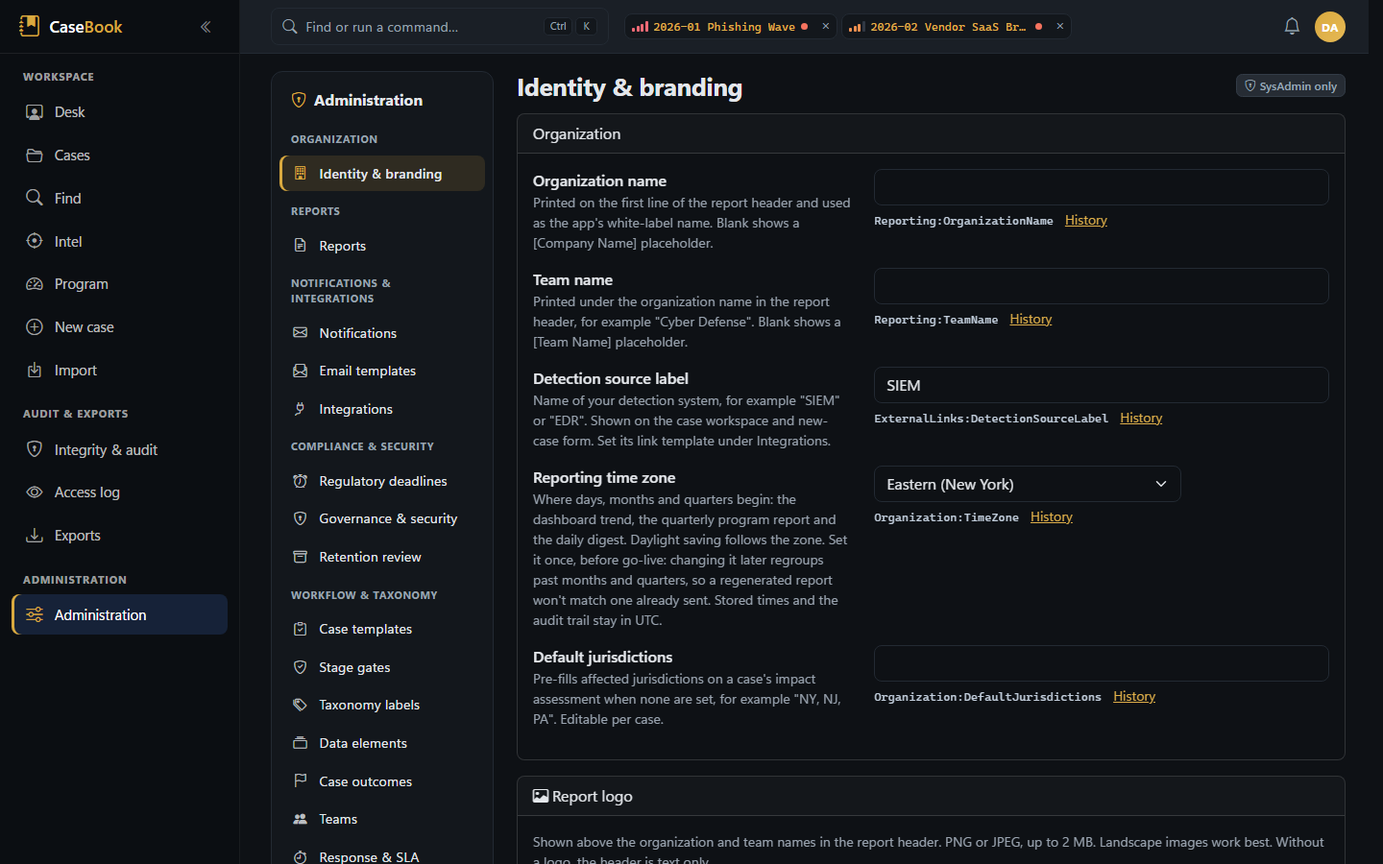
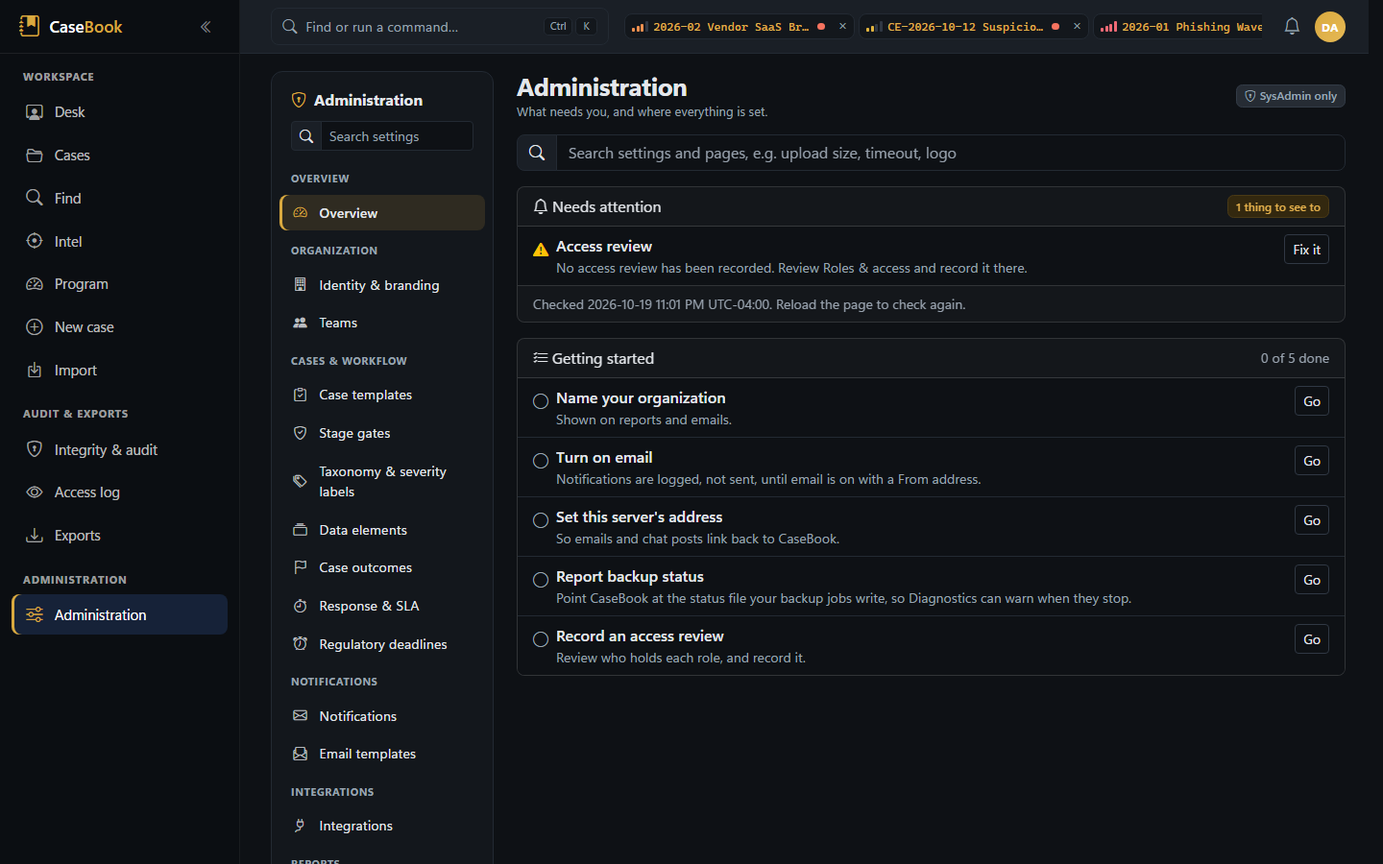
Docs for the new Administration (areas by task, search, overview, editing feedback, Diagnostics' order, the moved pages and old links), v1.11.0 notes, refreshed admin screenshots; the rail's search hides on the overview, which has its own

diff --git a/docs/workflows/administration.md b/docs/workflows/administration.md
@@ -7,43 +7,73 @@ authentication, key paths, SIEM, CyberArk) aren't editable here; they're shown r
 
 ![Administration](../screenshots/admin-settings.png)
 
+## Finding your way
+
+- **Overview** (`/admin`) is where Administration opens: **Needs attention** lists everything that needs an
+  administrator, worst first, each with a link to where it's fixed (the same list heads Diagnostics), and, while a new
+  install still needs them, **Getting started** steps.
+- **Search**, on the overview and at the top of the rail, finds a setting by its label, its key, its help text or an
+  everyday word ("upload size", "timeout", "SMTP"), a page by what it's for ("logo", "api key"), and a server-only
+  setting ("connection string", which says it's set on the host). A setting opens on its page, scrolled to it and
+  briefly highlighted. The same results appear in the command palette (Ctrl+K) under *Administration*.
+- A link from elsewhere lands on the setting too: Diagnostics' *Fix it*, and an upload refused by a limit (an
+  administrator gets *Change the limit*).
+
 ## The admin areas
 
-| Area | Route | What you can do |
-|---|---|---|
-| Identity & branding | `/admin` | Organization and team name, time zone, default jurisdictions, accent and ink colors, report logo |
-| Reports | `/admin/settings/reporting` | Report defaults (TLP, defanging, milestones, late-entry notes, separate approver, lessons legend), the section-layout designer, report profiles, the Word template library |
-| Notifications | `/admin/settings/notifications` | Email on/off, sender, distributions, reminder scans and their timing, mandatory types, chat routing, base URL; the delivery-readiness panel; the **Email sign-in** card (CAP-05: none, username and password, or Windows; the password write-only, encrypted with Data Protection, read-only when the server's configuration sets it) with a test email beside it; the **Team chat webhook** card (CAP-40: the URL write-only, https checked before it's saved, "set on … by …" with Replace and Clear, read-only when the server's configuration sets it) with *Send test* beside it; and a test email and chat message |
-| Email templates | `/admin/email-templates` | Subject and body of every notification email, with preview (the branded shell is fixed) |
-| Integrations | `/admin/settings/integrations` | Detection-source label and link template, VirusTotal link template; under *Related indicators*, your organization's domains, the excluded address ranges and the free mail switch that *Possibly related* leaves out (CAP-28). Beside the domains, the domains found on this server's network with where each came from (this domain, forest root, same forest, trusted); **Use these** fills the field without saving, so you review and save it; **Look again** looks again. While the field has never been saved, your organization's own domains found (this domain, forest root, same forest) are used, and a trusted partner's domain is only offered through **Use these**; saved, even blank, your list is used |
-| Regulatory deadlines | `/admin/settings/regulatory-deadlines` | Deadline clock on/off, start basis, default window, per-jurisdiction rules |
-| Governance & security | `/admin/settings/governance` | Retention (case retention for the retention review, the monthly retention email to Legal, access-log retention), integrity (auto-seal, evidence re-hash), access logging scope and coalescing, idle timeout, the access-review reminder, two-person legal-hold release |
-| Offboarding | `/admin/users/{reference}` (from Known users) | CAP-30: one person who leaves: their roles at last sign-in (AD stays the source; remove their groups there), the open cases they command or are on (restricted ones counted unless you're cleared for them), their open tasks, their working API tokens and whether their calendar link works. **Revoke** their tokens and **Void the calendar link** (each confirmed and audited; the link is never shown); reassign their cases with **Reassign…** in Program › Team workload |
-| Retention review | `/admin/retention` | CAP-10: closed cases past case retention, with each one's legal hold, open improvement actions and regulatory notices not recorded; archive up to 25 at a time after seeing them listed. Nothing is purged |
-| Case templates | `/admin/templates` | Playbooks: defaults for the new-case form and steps that become tasks |
-| Stage gates | `/admin/gates` | One gate per trigger: requirements, blocking or advisory, minimum reason length |
-| Taxonomy labels | `/admin/taxonomy` | Rename, hide or reorder display labels for six lists: classifications, phases, entity types, dispositions, timeline entry types and relationship types (display only; stored values don't change). Severity labels are under Response & SLA |
-| Data elements | `/admin/data-elements` | Personal-data categories and their notification jurisdictions; archive or (if unused) delete |
-| Case outcomes | `/admin/outcomes` | What a case can conclude when it closes; add, relabel, describe, reorder, archive or (if unused) delete |
-| Teams | `/admin/teams` | CAP-36: the teams that own cases; add, rename, retire or restore, set members, a detection source and a team chat webhook |
-| Response & SLA | `/admin/settings/sla` | SLA targets per severity, breach overrides, at-risk threshold, severity labels |
-| Roles & access | `/admin/roles` | Custom roles (from the eight permissions) and AD group mappings; the access review (broad access, restricted cases, known users, each opening their offboarding page (CAP-30), active API tokens) with its CSV, and **Record this review** (CAP-15) |
-| API tokens | `/admin/api-tokens` | System tokens for machine producers |
-| Server configuration | `/admin/settings/server` | Read-only view of server-side settings (secrets as present or absent, and where from: the server's configuration or Administration); and the **SIEM webhook token** card (CAP-40: write-only, as the chat URL's, with *Send test event* beside it) |
-| Setting sources | `/admin/settings/source` | Each setting's effective value and where it comes from (*Discovered* for your organization's domains while the domains found on the network are in use, CAP-28) |
-| Configuration bundle | `/admin/config-bundle` | Export, diff and import editable configuration |
-| Updates | `/admin/settings/updates` | The running version and the last upgrade; the update check (off by default: one anonymous call a day to the GitHub Releases API) with each newer release's notes; the exact elevated command to upgrade this site |
-| Diagnostics | `/admin/settings/diagnostics` | Backup and restore freshness, evidence-integrity status, CyberArk resolution health, delivery health (CAP-04: email, chat and each SIEM transport; in memory since restart), the scheduled jobs (CAP-29: each background job's last run, next due and last error by type, in memory since restart; **Run now** for the read-only scans), the email relay sign-in check, a "re-enter" check for a saved chat URL or SIEM token that can't be decrypted here (CAP-40), SIEM test event, writable-path checks, the retention review's latest count (CAP-10), the access-review reminder (CAP-15), and *Organization domains found* (CAP-28: what discovery found and when, or why nothing: not on a domain, timed out, or the error's type; and whether they're in use) |
-| Style guide | `/admin/style` | Live design-system reference for developers |
-| Access log | `/access-log` (main navigation) | Who read which case or downloaded what |
+The rail groups the pages by what you're doing.
+
+| Group | Page | Route | What you can do |
+|---|---|---|---|
+| Overview | Overview | `/admin` | What needs attention, getting started, search |
+| Organization | Identity & branding | `/admin/settings/identity` | Organization and team name, time zone, default jurisdictions, accent and ink colors, report logo |
+| | Teams | `/admin/teams` | CAP-36: the teams that own cases; add, rename, retire or restore, set members, a detection source and a team chat webhook |
+| Cases & workflow | Case templates | `/admin/templates` | Playbooks: defaults for the new-case form and steps that become tasks |
+| | Stage gates | `/admin/gates` | One gate per trigger: requirements, blocking or advisory, minimum reason length |
+| | Taxonomy & severity labels | `/admin/settings/taxonomy` | Rename, hide or reorder display labels for six lists (classifications, phases, entity types, dispositions, timeline entry types and relationship types; display only, stored values don't change), each saved on its own; and the severity labels |
+| | Data elements | `/admin/data-elements` | Personal-data categories and their notification jurisdictions; archive or (if unused) delete |
+| | Case outcomes | `/admin/outcomes` | What a case can conclude when it closes; add, relabel, describe, reorder, archive or (if unused) delete |
+| | Response & SLA | `/admin/settings/sla` | SLA targets per severity, breach overrides, at-risk threshold |
+| | Regulatory deadlines | `/admin/settings/regulatory-deadlines` | Deadline clock on/off, start basis, default window, per-jurisdiction rules |
+| Notifications | Notifications | `/admin/settings/notifications` | Three cards. **Email delivery**: email on/off, sender, distributions, this server's address, the delivery-readiness panel, the relay as the server's configuration sets it (read-only), and the **Email sign-in** card (CAP-05: none, username and password, or Windows; the password write-only, encrypted with Data Protection). **Email notifications**: assignment emails, the reminder scans and their timing, digests, mandatory types, exercise escalations. **Team chat**: what's posted to chat, the chat switch (read-only), the **Team chat webhook** card (CAP-40), and test email and chat messages |
+| | Email templates | `/admin/email-templates` | Subject and body of every notification email, with preview (the branded shell is fixed) |
+| Integrations | Integrations | `/admin/settings/integrations` | **External links**: the detection-source label and link template, the VirusTotal link template. **Related indicators** (CAP-28): your organization's domains (with the domains found on this server's network, **Use these** and **Look again**), the excluded address ranges and the free mail switch. **SIEM, team chat and CyberArk**: their status as the server's configuration sets them (read-only), *Send test event*, and the **SIEM webhook token** card (CAP-40) |
+| Reports | Reports | `/admin/settings/reporting` | Report defaults (TLP, defanging, milestones, late-entry notes, separate approver, lessons legend), the section-layout designer, report profiles, the Word template library |
+| Records & evidence | Evidence storage | `/admin/settings/evidence` | Largest file, total limit, free space to keep, the read-back check, safe download; where evidence is stored, whether it's writable, what it takes (the meter), and the store folder and encryption (read-only) |
+| | Retention | `/admin/settings/retention` | Case, access-log and decided-import retention, the monthly email to Legal, the second approver to release a legal hold; and below them the **retention review** (CAP-10): closed cases past case retention, with each one's legal hold, open improvement actions and regulatory notices not recorded; archive up to 25 at a time after seeing them listed. Nothing is purged |
+| | Integrity | `/admin/settings/integrity` | Auto-seal, evidence re-verification and its full pass; the evidence-at-rest results; the signing and chain keys in force (read-only) |
+| People & access | Roles & access | `/admin/roles` | Custom roles (from the eight permissions) and AD group mappings; the access review (broad access, restricted cases, known users, each opening their offboarding page (CAP-30), active API tokens) with its CSV, and **Record this review** (CAP-15) |
+| | API tokens | `/admin/api-tokens` | System tokens for machine producers |
+| | Security & access logging | `/admin/settings/security` | Idle timeout, the access-review reminder, what the access log records and how visits are grouped |
+| System | Diagnostics | `/admin/settings/diagnostics` | **Needs attention**, then **Service health** (the checks, each failed one with *Fix it*; delivery health, CAP-04; the scheduled jobs, CAP-29, with **Run now** for the read-only scans; backup and restore freshness), **Storage and keys** (evidence storage in one line, evidence encryption, the integrity keys and seal copies, CyberArk resolution, the backup set, CAP-19), **Capacity** (the integrity check's cost) and **About this server** (version, environment, database, migrations, search, sign-in mode, the organization domains found, CAP-28) |
+| | Server configuration | `/admin/settings/server` | Read-only view of server-side settings (secrets as present or absent, and where from: the server's configuration or Administration) |
+| | Setting sources | `/admin/settings/source` | Each setting's effective value and where it comes from (*Discovered* for your organization's domains while the domains found on the network are in use, CAP-28) |
+| | Configuration bundle | `/admin/config-bundle` | Export, diff and import editable configuration |
+| | Updates | `/admin/settings/updates` | The running version and the last upgrade; the update check (off by default) with each newer release's notes; the exact elevated command to upgrade this site |
+| | Search | `/admin/settings/search` | How search matches words (CAP-22) |
+| | Style guide | `/admin/style` | Live design-system reference for developers; in the rail in Development only |
+| | Offboarding | `/admin/users/{reference}` (from Known users) | CAP-30: one person who leaves: their roles at last sign-in (AD stays the source; remove their groups there), the open cases they command or are on (restricted ones counted unless you're cleared for them), their open tasks, their working API tokens and whether their calendar link works. **Revoke** their tokens and **Void the calendar link** (each confirmed and audited; the link is never shown); reassign their cases with **Reassign…** in Program › Team workload |
+| | Access log | `/access-log` (main navigation) | Who read which case or downloaded what |
+
+Old links still work: `/admin/settings/governance` opens Evidence storage, `/admin/retention` the Retention page and
+`/admin/taxonomy` the Taxonomy & severity labels page.
 
 ## Editing settings
 
-1. Open a section. Each card shows its settings; changed values are marked "Unsaved changes".
-2. **Save changes** in the bar at the bottom of the section (or *Discard*). Leaving with unsaved changes asks
-   first.
+1. Open a page. Each card shows its settings; changed values are marked "Unsaved changes". A value that breaks its
+   setting's rules (a number out of range, a malformed address) is said under it as you type, and Save waits until
+   it's corrected.
+2. **Save changes** in the bar at the bottom of the page (or *Discard*). The message says what changed (old to new
+   where it's short) and, for a setting that waits, when it applies. Leaving with unsaved changes asks first.
 3. The service checks each value against the catalog (type, range, options), writes an audited `AppSetting`
    row, reloads configuration and emits SIEM 5403.
+
+Most changes apply at once. A setting a background job reads (the reminder scans, retention, auto-seal, evidence
+re-verification, the update check) is tagged *Applies within about 10 minutes*, and the idle timeout *Applies to new
+sign-ins*. A changed setting shows **Changed in CaseBook**, who changed it and when, with *Reset* and *History* (the
+audit trail filtered to it). A card that saves with its own button (the email sign-in, the chat webhook and SIEM
+token, the report logo, each taxonomy list) says *Saves on its own*. Settings only the server's configuration sets
+are shown read-only at the foot of the card that uses them, marked *Set on the host*.
 
 Two things to know: where no override exists, the form shows the value from your server files (or the catalog
 default when they set none), so what you see is what's in effect; and **clearing a number restores the file
@@ -87,7 +117,7 @@ To find past reviews, filter the audit trail (Integrity & audit) by the entity t
 
 ## Retention review (CAP-10)
 
-`Retention:CaseYears` (Governance & security, default 7) decides when a closed case is listed under **Retention review**:
+`Retention:CaseYears` (Records & evidence › Retention, default 7) decides when a closed case is listed in the **retention review**:
 closed more than that many years ago and not archived. 0 turns the review off. Exercises aren't listed. The list is your
 own need-to-know view: an administrator without the clearance for a restricted case doesn't see it.
 

diff --git a/docs/operations/configuration.md b/docs/operations/configuration.md
@@ -39,12 +39,13 @@ Things to know:
   related-indicator exclusions) is used only while no source gives the list as items. An in-app list, blank
   included, always wins over it (CAP-28 review). An empty JSON array (`"ExcludedDomains": []`) is an empty list,
   not an unset one.
-- **Administration → Settings → Configuration source map** shows the true effective value of each key and
+- **Administration → Setting sources** shows the true effective value of each key and
   which source it came from. Use it when a value isn't what you expect.
 
 ### 1.1 In-app (operational) settings
 
-Administration → Settings edits the keys in `SettingsCatalog`. A save:
+Administration edits the keys in `SettingsCatalog`, each on the page of its kind (Notifications, Evidence storage and
+so on; search finds any of them). A save:
 
 1. requires the `Administer` permission;
 2. rejects any key not in the catalog;
@@ -53,7 +54,7 @@ Administration → Settings edits the keys in `SettingsCatalog`. A save:
 4. writes an `AppSetting` row, which is audited and hash-chained like any other change;
 5. reloads configuration and emits SIEM event 5403.
 
-Two other key spaces share the table: `Taxonomy:*` (display labels, Administration → Taxonomy) and
+Two other key spaces share the table: `Taxonomy:*` (display labels, Administration → Taxonomy & severity labels) and
 `EmailTemplate:*` (Administration → Email templates).
 
 When loading, the database provider applies the same whitelist. A row whose key isn't in the catalog (and
@@ -108,7 +109,7 @@ Everything else is checked lazily or not at all:
 
 Columns:
 
-- **Edit**: **App** (Administration → Settings) or **Server** (files or environment).
+- **Edit**: **App** (Administration) or **Server** (files or environment).
 - **Sens**: 🔒 secret · ⚠ sensitive (infrastructure detail, personal data) · blank for benign.
 - A default shown as `json: …` is a value set in `appsettings.json` rather than in code.
 
@@ -215,7 +216,7 @@ process's working directory, which under IIS is the site folder.
 | Key | Purpose | Default | Edit |
 |---|---|---|---|
 | `Governance:LegalHoldRelease:RequireSecondApprover` | Two-person control for releasing a legal hold | `false` | App |
-| `Retention:CaseYears` | Years after closing before a case is listed under Administration › Retention review for an administrator to archive (CAP-10). Nothing is archived or deleted automatically. `0` turns the review (and its background count, at start-up and then every `Notifications:RetentionReview:IntervalHours`) off; at most 100 (a larger value in the file counts as 100). | `7` | App |
+| `Retention:CaseYears` | Years after closing before a case is listed under Administration › Retention for an administrator to archive (CAP-10). Nothing is archived or deleted automatically. `0` turns the review (and its background count, at start-up and then every `Notifications:RetentionReview:IntervalHours`) off; at most 100 (a larger value in the file counts as 100). | `7` | App |
 | `Notifications:RetentionReview:Email` | Once a calendar month (organization time zone), when cases are past `Retention:CaseYears`, email the Legal / Privacy distribution how many are waiting and how many are under a hold: counts only, no case named (CAP-10). Needs `Email:LegalDistribution`; a month whose email fails goes again on the next count | `false` | App |
 | `Notifications:RetentionReview:IntervalHours` | Hours between the retention review's counts (`0` also means 24; at most 744) | `24` | Server |
 | `Governance:AccessReview:ReminderDays` | Diagnostics flags the access review as due when none has been recorded under Roles & access in this many days, or none ever has (CAP-15). `0` turns the reminder off; at most 730 | `90` | App |
@@ -270,7 +271,7 @@ Classification, phase and other labels are under Administration → Taxonomy (`T
 
 CaseBook signs in to the relay one of three ways (CAP-05): **none** (an anonymous or IP-allow-listed relay, the
 default), a **username and password**, or **Windows**: integrated authentication as the app-pool account (a gMSA), with
-no password anywhere, for on-premises Exchange. The usual place to set it is **Administration → Settings →
+no password anywhere, for on-premises Exchange. The usual place to set it is **Administration →
 Notifications → Email sign-in**: the password is encrypted with ASP.NET Core Data Protection and kept in the
 database (`SmtpSignIns`), never shown again ([integrations.md](integrations.md#email-smtp)). The server's
 configuration can set it instead, with the keys below; when it sets any of them it wins, and the form shows the
@@ -317,7 +318,7 @@ scans read case data only. All deliver only when `Email:Enabled` is on (or to ch
 | `Notifications:Mandatory:{Assignment,Overdue,DueSoon}` | Users can't opt out of that type | `false` | App |
 | `Notifications:Chat:{BreachEscalations,Assignments,Mentions,OverdueReminders,DueSoonReminders,DeadlineReminders,StaleReminders,ImportSubmissions}` | Also post that type to the team chat channel. `ImportSubmissions` (CAP-01) says an API import is waiting; for a restricted case it leaves out the summary and origin | `false` | App |
 
-Administration → Settings → Notifications has a **Delivery readiness** panel. It shows whether email is on,
+Administration → Notifications has a **Delivery readiness** panel. It shows whether email is on,
 whether a sender is set and which triggers are enabled, and a *Send a test email* card.
 
 ### 3.14 Calendar feed

diff --git a/docs/architecture/frontend.md b/docs/architecture/frontend.md
@@ -48,16 +48,24 @@ caught by the server and redirected to `/access-denied?from=…`; an unknown pag
 | `/exports` | `Exports` | ViewCases | Download CSVs and bundles |
 | `/program/report` | `ProgramReportPage` | ViewCases | Program › Program report: quarterly program metrics |
 | `/account/access`, `/account/api-tokens`, `/account/notifications`, `/account/keyboard` | `Account*` | signed in | My access; personal tokens; notification preferences; keyboard shortcuts (RD-24) |
-| `/admin`, `/admin/settings/{Section?}` | `Admin` | Administer | Settings sections (below) |
-| `/admin/templates`, `/admin/gates`, `/admin/taxonomy`, `/admin/data-elements`, `/admin/outcomes`, `/admin/teams`, `/admin/roles`, `/admin/api-tokens`, `/admin/email-templates`, `/admin/config-bundle`, `/admin/retention`, `/admin/users/{UserRef:guid}`, `/admin/style` | `Admin*`, `StyleGuide` | Administer | Case templates, stage gates, labels, data elements, case outcomes, teams (CAP-36, `AdminTeams`, with a webhook card per team), roles and AD mappings (with the access review, CAP-15), system tokens, email wording, configuration bundle, the retention review (CAP-10), offboarding one person (CAP-30, `AdminOffboarding`; `UserRef` is the `AppUser` row's id, an opaque reference, never a name or account), live style guide |
+| `/admin` | `AdminOverview` | Administer | What needs attention (`AttentionSummary`, from `AdminHealth`), getting started, search (`AdminSearchBox`) |
+| `/admin/settings/{Section?}` | `Admin` | Administer | Settings and System sections (below) |
+| `/admin/templates`, `/admin/gates`, `/admin/data-elements`, `/admin/outcomes`, `/admin/teams`, `/admin/roles`, `/admin/api-tokens`, `/admin/email-templates`, `/admin/config-bundle`, `/admin/users/{UserRef:guid}`, `/admin/style` | `Admin*`, `StyleGuide` | Administer | Case templates, stage gates, data elements, case outcomes, teams (CAP-36, `AdminTeams`, with a webhook card per team), roles and AD mappings (with the access review, CAP-15), system tokens, email wording, configuration bundle, offboarding one person (CAP-30, `AdminOffboarding`; `UserRef` is the `AppUser` row's id, an opaque reference, never a name or account), live style guide |
 | `/access-denied`, `/not-found` | `NoAccess`, `NotFoundPage` | signed in | Friendly 403 and 404 |
 | `/Error`, `/session-expired` | `Error`, `SessionExpired` | anonymous (blank layout) | Error with a reference id; idle lock landing |
 
-**Admin sections.** `AdminLayout` adds a left rail. `/admin/settings/{section}` maps to groups in
-`SettingsCatalog`: `identity` (organization), `reporting`, `notifications`, `integrations`,
-`regulatory-deadlines`, `governance`, `sla`, plus the system views `server` (read-only server configuration),
-`source` (where each setting's value comes from) and `diagnostics`. A catalog group not claimed by a section
-appears under `/admin/settings/other`. Each section has one Save bar; leaving with unsaved changes prompts.
+**Admin sections.** `AdminLayout` adds a left rail grouped by task (`AdminLayout.AllGroups`: Overview, Organization, Cases &
+workflow, Notifications, Integrations, Reports, Records & evidence, People & access, System), with a search box at its top.
+`/admin/settings/{section}` maps to groups in `SettingsCatalog` (`Admin.NamedSettingsSections`, each with a one-line
+subtitle): `identity`, `notifications` (Email delivery, Email notifications, Team chat), `integrations`, `sla`,
+`taxonomy` (the taxonomy editor, `TaxonomyEditor`, above the severity labels), `regulatory-deadlines`, `reporting`,
+`evidence`, `retention` (with the review, `RetentionReviewPanel`), `integrity`, `security`, `search`, `updates`, plus the
+system views `server`, `source` and `diagnostics`. `/admin/settings/governance` lands on `evidence`, and `/admin/retention`
+and `/admin/taxonomy` send old links to their sections. A catalog group not claimed by a section appears under
+`/admin/settings/other` (a test keeps it empty). Each section has one Save bar, held while any changed value breaks its
+rules; leaving with unsaved changes prompts. A link ending `#<setting key>` (search, Diagnostics' fixes, an error's
+"Change the limit") scrolls to the setting and highlights it (`admin.js`, `imAdmin.reveal`). `AdminSearchIndex` indexes
+the settings, pages and server-only settings for the search box and the command palette.
 
 ## Layout and navigation
 

diff --git a/docs/OPERATIONS.md b/docs/OPERATIONS.md
@@ -67,7 +67,7 @@ BACKUP LOG [IncidentManager]
 
 ### 1.2.1 Evidence storage: limits, large uploads and network shares
 
-**Limits (PROD-55).** Administration › Governance & security › Evidence storage sets the largest file
+**Limits (PROD-55).** Administration › Evidence storage sets the largest file
 (`Evidence:MaxUploadMB`, default 500 MB, up to 64 GB), the most all evidence may take (`Evidence:StorageQuotaGB`, no
 limit by default) and the free space an upload must leave on the store (`Evidence:MinFreeSpaceGB`, default 10 GB).
 Every way evidence arrives (picked, dropped, sent in parts, a pasted screenshot) is checked before a byte is stored
@@ -235,7 +235,7 @@ hash — so bit-rot, a silently substituted file, or a deletion under the eviden
 undetected until someone tried to open the file. F-17 closes that gap: a background job periodically
 **re-hashes the stored evidence files** and compares each with its recorded hash.
 
-- **Enable and schedule it** under **Administration → Settings → Integrity**
+- **Enable and schedule it** under **Administration → Integrity**
   (`Integrity:EvidenceVerify:Enabled`, default **off**; `Integrity:EvidenceVerify:IntervalHours`,
   default **24**; `Integrity:EvidenceVerify:PassDays`, default **7**). Each run re-hashes one share of the
   files, so every file is checked at least once in `PassDays` days and a large store is read a seventh at a
@@ -249,7 +249,7 @@ undetected until someone tried to open the file. F-17 closes that gap: a backgro
   (the offender list — case number, evidence id, filename). The alarm fires **once per drift** (an item and
   what's wrong with it): a drift that persists doesn't repeat it, a new one does even while an older one persists,
   and one that clears and comes back alerts again (REV-09).
-- **Status** is surfaced on **Administration → Diagnostics → Evidence-at-rest integrity** (last checked,
+- **Status** is surfaced on **Administration → Integrity → Evidence-at-rest results** (last checked,
   count verified, and any offenders) and, on drift, a persistent app-wide banner for Administer users.
 - Like the backup-health signal, the job **only reads** — it records nothing to the database and is not
   part of the audit chain (ops telemetry, not a case mutation), so a tamper that targets the store or
@@ -1128,7 +1128,7 @@ SMTP password `Email:SmtpPassword`; connection strings, `Agenda:FeedKey` and the
 literals or environment variables) needn't be kept in plain text. Each is resolved at runtime through one seam, so a
 value may be written three ways, chosen per value:
 
-**The SMTP password is usually entered in the app instead** (Administration → Settings → Notifications → Email
+**The SMTP password is usually entered in the app instead** (Administration → Notifications → Email
 sign-in): it's encrypted with Data Protection and kept in the database, with no keytool step. It's write-only, its
 changes are audited, and it needs the Data Protection key ring backed up with the database (§1). Setting
 `Email:SmtpUsername`/`SmtpPassword` or `Email:SmtpUseDefaultCredentials` in the file, as below, overrides the form
@@ -1386,7 +1386,7 @@ in the index, and a search word matches entries that **start with** it. So by wo
 "svc_backup" but `backup` doesn't, and `e-mail` finds "e-mail" but `mail` doesn't. Evidence file names, which are
 nearly always joined words, aren't indexed at all and stay a substring match (`dump` finds `lsass_dump.dmp`); the
 Evidence table is small. For the other free text, a site whose analysts need the part after the join found can set
-**Administration › Settings › Search › How search matches words** (`Search:Mode`) to *Anywhere in the text*
+**Administration › Search › How search matches words** (`Search:Mode`) to *Anywhere in the text*
 (`Substring`): every search then reads every row of every searched column, as without the feature (on the measured
 500-case database, about 340 ms a Find keystroke and 2 s a case-list search instead of 215 ms and 277 ms;
 [performance.md](reference/performance.md)), and the indexes stay in place, kept up to date, for switching back.

diff --git a/docs/product/screens.md b/docs/product/screens.md
@@ -394,7 +394,7 @@ lessons-learned report.
 |---|---|---|
 | Integrity & audit | Verify the audit chain, see seals, search the whole audit trail (case, actor, action, entity type, dates; paged by sequence, so new entries don't shift the pages) and export it as CSV, export a compliance bundle. A setting's *History* link in Administration opens it filtered to that setting | ![](../screenshots/integrity-audit.png) |
 | Access log | Who read which case or downloaded which artifact (administrators). Its CSV, like the audit trail's, holds up to 1,000,000 rows of the filter, streamed; a cut file says so (CAP-32) | ![](../screenshots/access-log.png) |
-| Administration | Settings by section, with a left rail of every admin area. *Diagnostics* includes **Scheduled jobs** (CAP-29: a table of every background job's last run, outcome, items, next due and last error by type, reset at restart, with **Run now** for the read-only scans) and the **Backup set** (CAP-19): the database's name and every path to back up, each with whether it's there and writable, its size and last write, and `backup-manifest.json` to download | ![](../screenshots/admin-settings.png) |
+| Administration | Opens on an **Overview**: *Needs attention* (every problem the checks, deliveries, jobs, backups, keys and integrity checks found, worst first, each with a link to its fix) and, on a new install, *Getting started*. A left rail of every admin area, grouped by task (Organization, Cases & workflow, Notifications, Integrations, Reports, Records & evidence, People & access, System), with a **search** at its top that finds a setting by label, key, help or an everyday word and opens it highlighted (also in Ctrl+K). Settings pages check values as they're typed, tag the ones that wait for a background job or a new sign-in, say who changed each and when, and show the server-only settings they depend on read-only. *Diagnostics* opens with the same *Needs attention*, then service health (with **Scheduled jobs**, CAP-29), storage and keys (with the **Backup set**, CAP-19), capacity and about this server | ![](../screenshots/admin-settings.png) |
 | Offboarding (CAP-30) | One person who leaves, opened from Known users: roles at last sign-in, open cases they command or are on (restricted ones counted unless you're cleared), open tasks, working API tokens with **Revoke**, and whether their calendar link is live with **Void the calendar link**; a link to Team workload's reassign | |
 | Roles & access | System and custom roles, AD group mappings, and the access review: who sees across cases, restricted cases' teams, known users (each a link to their offboarding page) and active API tokens, with a CSV and **Record this review** ("Last reviewed … by …", CAP-15) | ![](../screenshots/roles-access.png) |
 | Retention review | Closed cases past case retention with their legal hold, open improvement actions and unrecorded regulatory notices; archive up to 25 at a time after confirming the list (CAP-10). No screenshot yet | — |

diff --git a/docs/workflows/investigation.md b/docs/workflows/investigation.md
@@ -144,7 +144,7 @@ the note is marked "On the record".
 | **Trigger** | Evidence tab: choose a file and a description, then *Upload*; or paste a screenshot or drag files onto the tab (uploaded immediately) |
 | **Collection** (CAP-08) | Optional *Collected* (when), *Collected from* (host, mailbox, system or vendor) and *Collected by*, on the upload form. They go with a picked or pasted file, with a large one (kept with the upload's state, so a resume keeps them) and with each dropped file. Checked before any byte is stored: not in the future, not before the case's activity began (its detected time when that isn't recorded). Later, the evidence panel's *Record how it was collected* sets or corrects them (`CaseService.RecordEvidenceCollectionAsync`, `EditCases`): an audited change, refused if someone changed them since the edit opened, and not dated after the upload. The file itself never changes. |
 | **Behind the scenes** | `EvidenceService.UploadAsync` checks `EditCases`, need-to-know and the room left (size, quota, free space) **before** storing; the evidence store writes the bytes under a random name outside the web root while computing SHA-256 (encrypted when evidence encryption is on); an `Evidence` row and an "Uploaded" custody event are saved. Files over 100 MB go up in 8 MB parts (`/evidence/uploads`), each checked again, and are read back before they're recorded. |
-| **Limits** | `Evidence:MaxUploadMB` per file (500 MB by default, up to 64 GB), `Evidence:StorageQuotaGB` in all, and `Evidence:MinFreeSpaceGB` left free (Administration › Governance & security › Evidence storage); 15 MB for timeline screenshots |
+| **Limits** | `Evidence:MaxUploadMB` per file (500 MB by default, up to 64 GB), `Evidence:StorageQuotaGB` in all, and `Evidence:MinFreeSpaceGB` left free (Administration › Evidence storage); 15 MB for timeline screenshots |
 | **Duplicates** | The same file (SHA-256) twice in one case is refused, naming the first copy; in another case it's stored and the uploader is told which other cases they can see hold it. |
 | **Large uploads cut off** | Kept for a day under *Unfinished uploads* (state beside the parts in `<store>\.incoming`, surviving a restart); picking the same file again carries on from the next part. |
 | **Hash as IOC** | Adds the file's SHA-256 as a FileHash indicator (verdict Unknown, labelled with the file name), or says it's already one. |

diff --git a/docs/UPGRADE.md b/docs/UPGRADE.md
@@ -212,6 +212,31 @@ first with `casebook-keytool export`.
 
 ## Notes
 
+### v1.11.0
+
+No migration and no setting changes: every setting keeps its key and value. **Administration is rearranged** so things
+are where you'd look for them, and it tells you more:
+
+- **An overview** opens Administration: *Needs attention* lists every problem the checks, deliveries, scheduled jobs,
+  backups, keys and integrity checks found, worst first, each with a link to where it's fixed (Diagnostics opens with
+  the same list), and a new install's *Getting started* steps.
+- **Search** on the overview, at the top of the rail and in Ctrl+K finds a setting by its label, key, help text or an
+  everyday word ("upload size", "timeout"), and opens it on its page, highlighted.
+- **The rail is grouped by task.** *Governance & security* is gone: its settings are now under **Records & evidence**
+  (Evidence storage, Retention with the retention review on the same page, Integrity) and **People & access** (Security
+  & access logging). The taxonomy labels and severity labels share a page; the Notifications page has three cards
+  (email delivery, email notifications, team chat); Search mode has a rail entry; the style guide shows in Development
+  only. Old links and bookmarks land on the new pages.
+- **Feedback while you edit:** a value that breaks its rules is said under it as you type and holds Save; a setting
+  that waits for a background job or a new sign-in says so; each changed setting shows who changed it and when; a save
+  says what changed. Settings only the server's configuration sets are shown read-only where they're used ("Set on the
+  host"), and the SIEM webhook token moves to Integrations, beside the SIEM status.
+- **Diagnostics** is in order: needs attention, service health, storage and keys, capacity, about this server. The
+  *Feature flags* table, which repeated settings, is gone. Its *Seal signing key* check now reports the key in force: a
+  key in the certificate store or CyberArk used to read as missing. A list setting in the server's settings file with a
+  bad entry (a distribution list's address) is now caught by *Settings within limits*.
+- **An upload refused by a limit** names it, and an administrator gets a *Change the limit* link to it.
+
 ### v1.10.3
 
 A small release with no migration and no setting changes.

diff --git a/docs/operations/integrations.md b/docs/operations/integrations.md
@@ -215,7 +215,7 @@ schema, for use in the organization's own approved AI tool.
 - **Auth:** the incoming-webhook URL is the credential (`Chat:Webhook:WebhookUrl`: a literal, a `@protected:` value or a
   CyberArk reference). Must be https (http only to loopback).
 - **Entering the URL in Administration (CAP-40):** with `Chat:Webhook:WebhookUrl` blank on the server, enter it under
-  **Administration → Settings → Notifications → Team chat webhook**. It's checked as a post checks it (https, or http
+  **Administration → Notifications → Team chat webhook**. It's checked as a post checks it (https, or http
   only to loopback) before it's saved, and a refusal says why without repeating the URL. It's write-only: encrypted with
   Data Protection (purpose `CaseBook.Secrets.ChatWebhookUrl.v1`, key ring in `DataProtection:KeyPath`) and stored in the
   `StoredSecrets` table; the card shows only "set on <date> by <user>", with Replace and Clear, and a **Send test** beside
@@ -268,7 +268,7 @@ schema, for use in the organization's own approved AI tool.
   missing (stopped until restart), no syslog host, a syslog protocol that isn't `Udp`, `Tcp` or `Tls`, a TLS pin that isn't a thumbprint or a client certificate that can't be used (CAP-33), no webhook URL or one that's refused, or a webhook token saved in
   Administration that can't be decrypted here.
 - **Webhook token in Administration (CAP-40):** with `Siem:Webhook:Token` blank on the server, enter it under
-  **Administration → Server configuration → SIEM webhook token**, with a **Send test event** beside it. It's kept as the
+  **Administration → Integrations → SIEM webhook token**, with a **Send test event** beside it. It's kept as the
   chat URL is (purpose `CaseBook.Secrets.SiemWebhookToken.v1`, the `StoredSecrets` table), write-only, audited without the
   value, sent to the SIEM as 5403, and read per event, so a change applies without a restart. The collector URL and the
   switch stay in the server's configuration, and a token set there wins.

diff --git a/docs/INSTALL.md b/docs/INSTALL.md
@@ -226,7 +226,7 @@ Or pass every value directly instead of a config file:
   in the backup and EDR scope.
 - **Email sign-in (CAP-05)**: `SmtpSignIn` in the answers file (or `-SmtpSignIn`) says how CaseBook signs in to the
   relay. **`App` (the default) is the usual choice:** after install, an administrator enters the username and
-  password under **Administration → Settings → Notifications → Email sign-in**, where the password is encrypted with
+  password under **Administration → Notifications → Email sign-in**, where the password is encrypted with
   Data Protection and never shown again, and sends a test email beside it. `Windows` signs in as the app-pool account
   (on-premises Exchange; no password). `Password` writes `SmtpUsername` and a password into
   `appsettings.Production.json`, which then wins over the form, as `SmtpPasswordSource` says: `Protected` (the
@@ -346,7 +346,7 @@ Then, signed in as a mapped user:
 - [ ] Wire the **backup-status JSON** so Diagnostics → Backup &amp; restore health reads *Fresh* — §1.3.1.
 - [ ] Perform one **restore rehearsal** and confirm chain + prior-seal verification on the copy — §1.3.
 - [ ] Confirm the evidence/seal/report dirs are in the **EDR** monitoring policy — §3.
-- [ ] Set the **email sign-in** under Administration → Settings → Notifications → Email sign-in (unless the answers
+- [ ] Set the **email sign-in** under Administration → Notifications → Email sign-in (unless the answers
       file set it), turn email on and *Send a test email*. Back up `<DataRoot>\dp-keys` with the database: it decrypts
       that password (OPERATIONS.md §1).
 - [ ] *(Optional)* Keep the SIEM token, chat webhook URL or SMTP password out of plain text: `@protected:` values with

diff --git a/docs/operations/troubleshooting.md b/docs/operations/troubleshooting.md
@@ -274,7 +274,7 @@ finding; the rest of CaseBook works.
 **Cause:** the folder in `EvidenceStore:RootPath` can't be written and read: a share or volume that's down, the app
 account's rights changed, or the folder isn't there (a remapped share, a changed drive or DFS target, a move done
 without changing the setting). CaseBook never recreates a store that held evidence.
-**Where to look:** Administration → Diagnostics → Evidence storage gives the reason; the log has it with the account.
+**Where to look:** Administration → Evidence storage gives the reason; the log has it with the account.
 **Fix:** bring the share back or restore the rights, or point `EvidenceStore:RootPath` at where the store now is
 ([OPERATIONS.md §1.2.1](../OPERATIONS.md#121-evidence-storage-limits-large-uploads-and-network-shares)). Downloads and
 uploads resume as soon as it's reachable; no restart needed. Don't create an empty folder at the old path to make

diff --git a/docs/reference/known-issues.md b/docs/reference/known-issues.md
@@ -58,6 +58,6 @@ Severity: **High** (security or data-integrity impact), **Medium** (wrong behavi
 - No per-user chat (Slack/Teams app); the webhook is a shared channel.
 - No read-only API for case status back to the detection platform.
 - No retention automation or purge. Closed cases past `Retention:CaseYears` are listed for an administrator to archive
-  (Administration › Retention review, CAP-10); nothing is archived or deleted by a job, and purging waits for two-person control.
+  (Administration › Retention, CAP-10); nothing is archived or deleted by a job, and purging waits for two-person control.
 - No configurable severity *levels* (only labels).
 - No case-type-specific workspace layouts.

diff --git a/docs/decisions/0007-settings-split.md b/docs/decisions/0007-settings-split.md
@@ -22,5 +22,5 @@ stream, swap the signing-key path or switch authentication off.
 ## Consequences
 
 - To add an operational setting, add it to `SettingsCatalog`. To add a sensitive one, keep it out.
-- A setting can come from three places: file, environment or database. Administration → Settings shows the
-  effective value and where it came from.
+- A setting can come from three places: file, environment or database. Administration → Setting sources shows
+  the effective value and where it came from.
